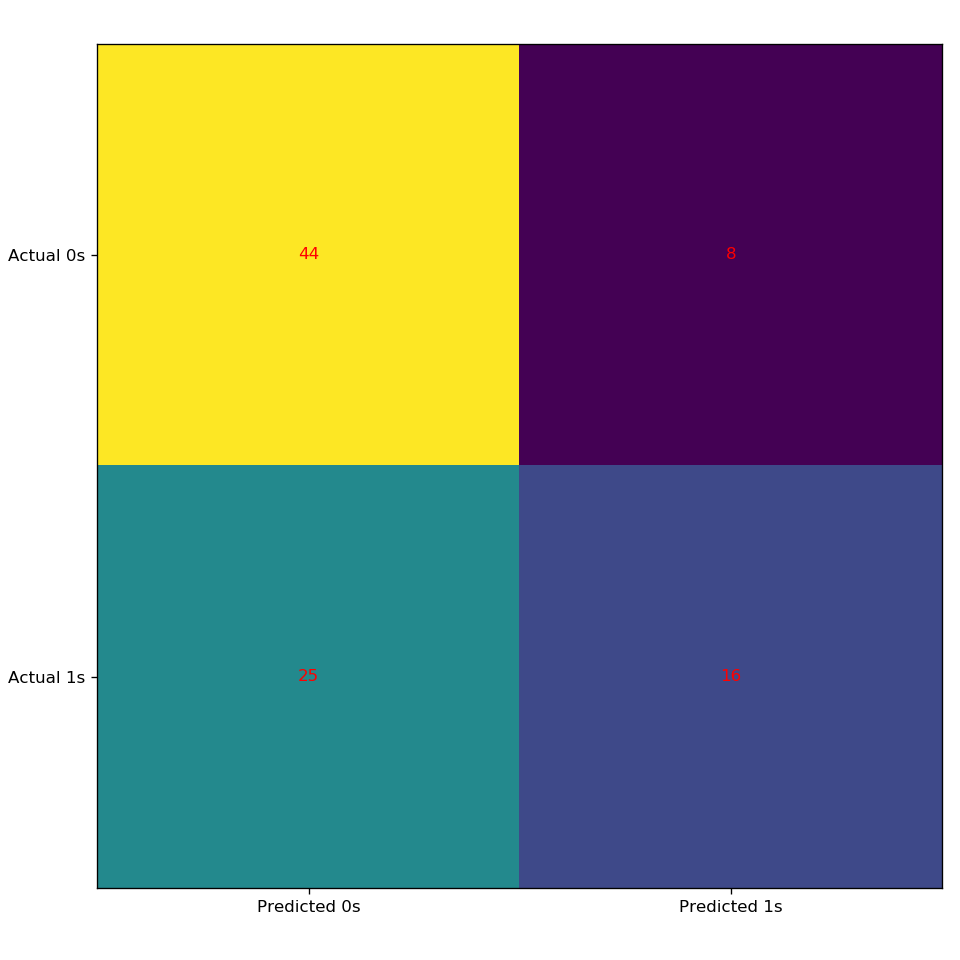
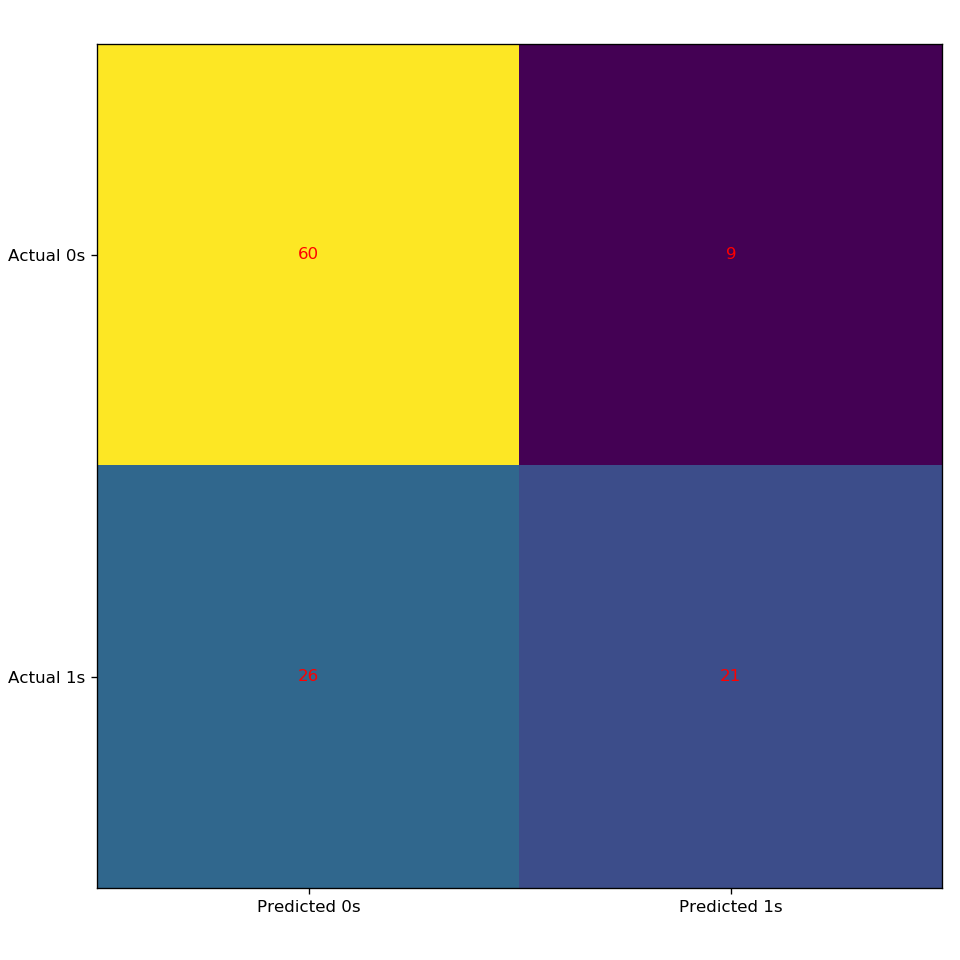
Commit new train.py
famhist included.

Changed region(s): [[0.0938, 0.4688, 0.5625, 0.9375], [0.75, 0.6875, 0.7812, 0.7188], [0.3125, 0.25, 0.3438, 0.2812]]

diff --git a/train.py b/train.py
@@ -1,58 +1,103 @@
-import pandas as pd
-from sklearn.linear_model import LogisticRegression
-from sklearn.metrics import classification_report, confusion_matrix, roc_auc_score, plot_roc_curve
-from sklearn.model_selection import train_test_split
-import matplotlib.pyplot as plt
-
-df_heart = pd.read_csv('SAHeart.csv', index_col=0)
-df_heart.head()
-df_heart.describe()
-#df_heart.drop('famhist', axis=1, inplace=True)
-df_heart = pd.get_dummies(df_heart, columns = ['famhist'], drop_first=True)
-
-# Set random seed
-seed = 52
-# Split into train and test sections
-y = df_heart.pop('chd')
-X_train, X_test, y_train, y_test = train_test_split(df_heart, y, test_size=0.25, random_state=seed)
-
-# Build logistic regression model
-model = LogisticRegression(solver='liblinear', random_state=0).fit(X_train, y_train)
-
-# Report training set score
-train_score = model.score(X_train, y_train) * 100
-# Report test set score
-test_score = model.score(X_test, y_test) * 100
-
-# Write scores to a file
-with open("metrics.txt", 'w') as outfile:
-        outfile.write("Training variance explained: %2.1f%%\n" % train_score)
-        outfile.write("Test variance explained: %2.1f%%\n" % test_score)
-
-
-# Confusion Matrix and plot
-cm = confusion_matrix(y_test, model.predict(X_test))
-fig, ax = plt.subplots(figsize=(8, 8))
-ax.imshow(cm)
-ax.grid(False)
-ax.xaxis.set(ticks=(0, 1), ticklabels=('Predicted 0s', 'Predicted 1s'))
-ax.yaxis.set(ticks=(0, 1), ticklabels=('Actual 0s', 'Actual 1s'))
-ax.set_ylim(1.5, -0.5)
-for i in range(2):
-    for j in range(2):
-        ax.text(j, i, cm[i, j], ha='center', va='center', color='red')
-
-plt.tight_layout()
-plt.savefig("cm.png",dpi=120) 
-plt.close()
-
-# Print classification report
-print(classification_report(y_test, model.predict(X_test)))
-
-#roc_auc_score(y_test, model.predict_proba(X_test)[:, 1])
-
-# Plot the ROC curve
-model_ROC = plot_roc_curve(model, X_test, y_test)
-plt.tight_layout()
-plt.savefig("roc.png",dpi=120) 
-plt.close()
+{
+ "cells": [
+  {
+   "cell_type": "code",
+   "execution_count": 3,
+   "metadata": {},
+   "outputs": [
+    {
+     "name": "stdout",
+     "output_type": "stream",
+     "text": [
+      "              precision    recall  f1-score   support\n",
+      "\n",
+      "           0       0.70      0.87      0.77        69\n",
+      "           1       0.70      0.45      0.55        47\n",
+      "\n",
+      "    accuracy                           0.70       116\n",
+      "   macro avg       0.70      0.66      0.66       116\n",
+      "weighted avg       0.70      0.70      0.68       116\n",
+      "\n"
+     ]
+    }
+   ],
+   "source": [
+    "import pandas as pd\n",
+    "from sklearn.linear_model import LogisticRegression\n",
+    "from sklearn.metrics import classification_report, confusion_matrix, roc_auc_score, plot_roc_curve\n",
+    "from sklearn.model_selection import train_test_split\n",
+    "import matplotlib.pyplot as plt\n",
+    "df_heart = pd.read_csv('SAHeart.csv', index_col=0)\n",
+    "df_heart.head(10)\n",
+    "df_heart.describe()\n",
+    "# df_heart.drop('famhist', axis=1, inplace=True)\n",
+    "df_heart = pd.get_dummies(df_heart, columns = ['famhist'], drop_first=True)\n",
+    "# Set random seed\n",
+    "seed = 52\n",
+    "# Split into train and test sections\n",
+    "y = df_heart.pop('chd')\n",
+    "X_train, X_test, y_train, y_test = train_test_split(df_heart, y, test_size=0.25, random_state=seed)\n",
+    "# Build logistic regression model\n",
+    "model = LogisticRegression(solver='liblinear', random_state=0).fit(X_train, y_train)\n",
+    "# Report training set score\n",
+    "train_score = model.score(X_train, y_train) * 100\n",
+    "# Report test set score\n",
+    "test_score = model.score(X_test, y_test) * 100\n",
+    "# Write scores to a file\n",
+    "with open(\"metrics.txt\", 'w') as outfile:\n",
+    "        outfile.write(\"Training variance explained: %2.1f%%n\" % train_score)\n",
+    "        outfile.write(\"Test variance explained: %2.1f%%n\" % test_score)\n",
+    "# Confusion Matrix and plot\n",
+    "cm = confusion_matrix(y_test, model.predict(X_test))\n",
+    "fig, ax = plt.subplots(figsize=(8, 8))\n",
+    "ax.imshow(cm)\n",
+    "ax.grid(False)\n",
+    "ax.xaxis.set(ticks=(0, 1), ticklabels=('Predicted 0s', 'Predicted 1s'))\n",
+    "ax.yaxis.set(ticks=(0, 1), ticklabels=('Actual 0s', 'Actual 1s'))\n",
+    "ax.set_ylim(1.5, -0.5)\n",
+    "for i in range(2):\n",
+    "    for j in range(2):\n",
+    "        ax.text(j, i, cm[i, j], ha='center', va='center', color='red')\n",
+    "plt.tight_layout()\n",
+    "plt.savefig(\"cm.png\",dpi=120) \n",
+    "plt.close()\n",
+    "# Print classification report\n",
+    "print(classification_report(y_test, model.predict(X_test)))\n",
+    "#roc_auc_score(y_test, model.predict_proba(X_test)[:, 1])\n",
+    "# Plot the ROC curve\n",
+    "model_ROC = plot_roc_curve(model, X_test, y_test)\n",
+    "plt.tight_layout()\n",
+    "plt.savefig(\"roc.png\",dpi=120) \n",
+    "plt.close()"
+   ]
+  },
+  {
+   "cell_type": "code",
+   "execution_count": null,
+   "metadata": {},
+   "outputs": [],
+   "source": []
+  }
+ ],
+ "metadata": {
+  "kernelspec": {
+   "display_name": "Python 3",
+   "language": "python",
+   "name": "python3"
+  },
+  "language_info": {
+   "codemirror_mode": {
+    "name": "ipython",
+    "version": 3
+   },
+   "file_extension": ".py",
+   "mimetype": "text/x-python",
+   "name": "python",
+   "nbconvert_exporter": "python",
+   "pygments_lexer": "ipython3",
+   "version": "3.7.1"
+  }
+ },
+ "nbformat": 4,
+ "nbformat_minor": 4
+}
